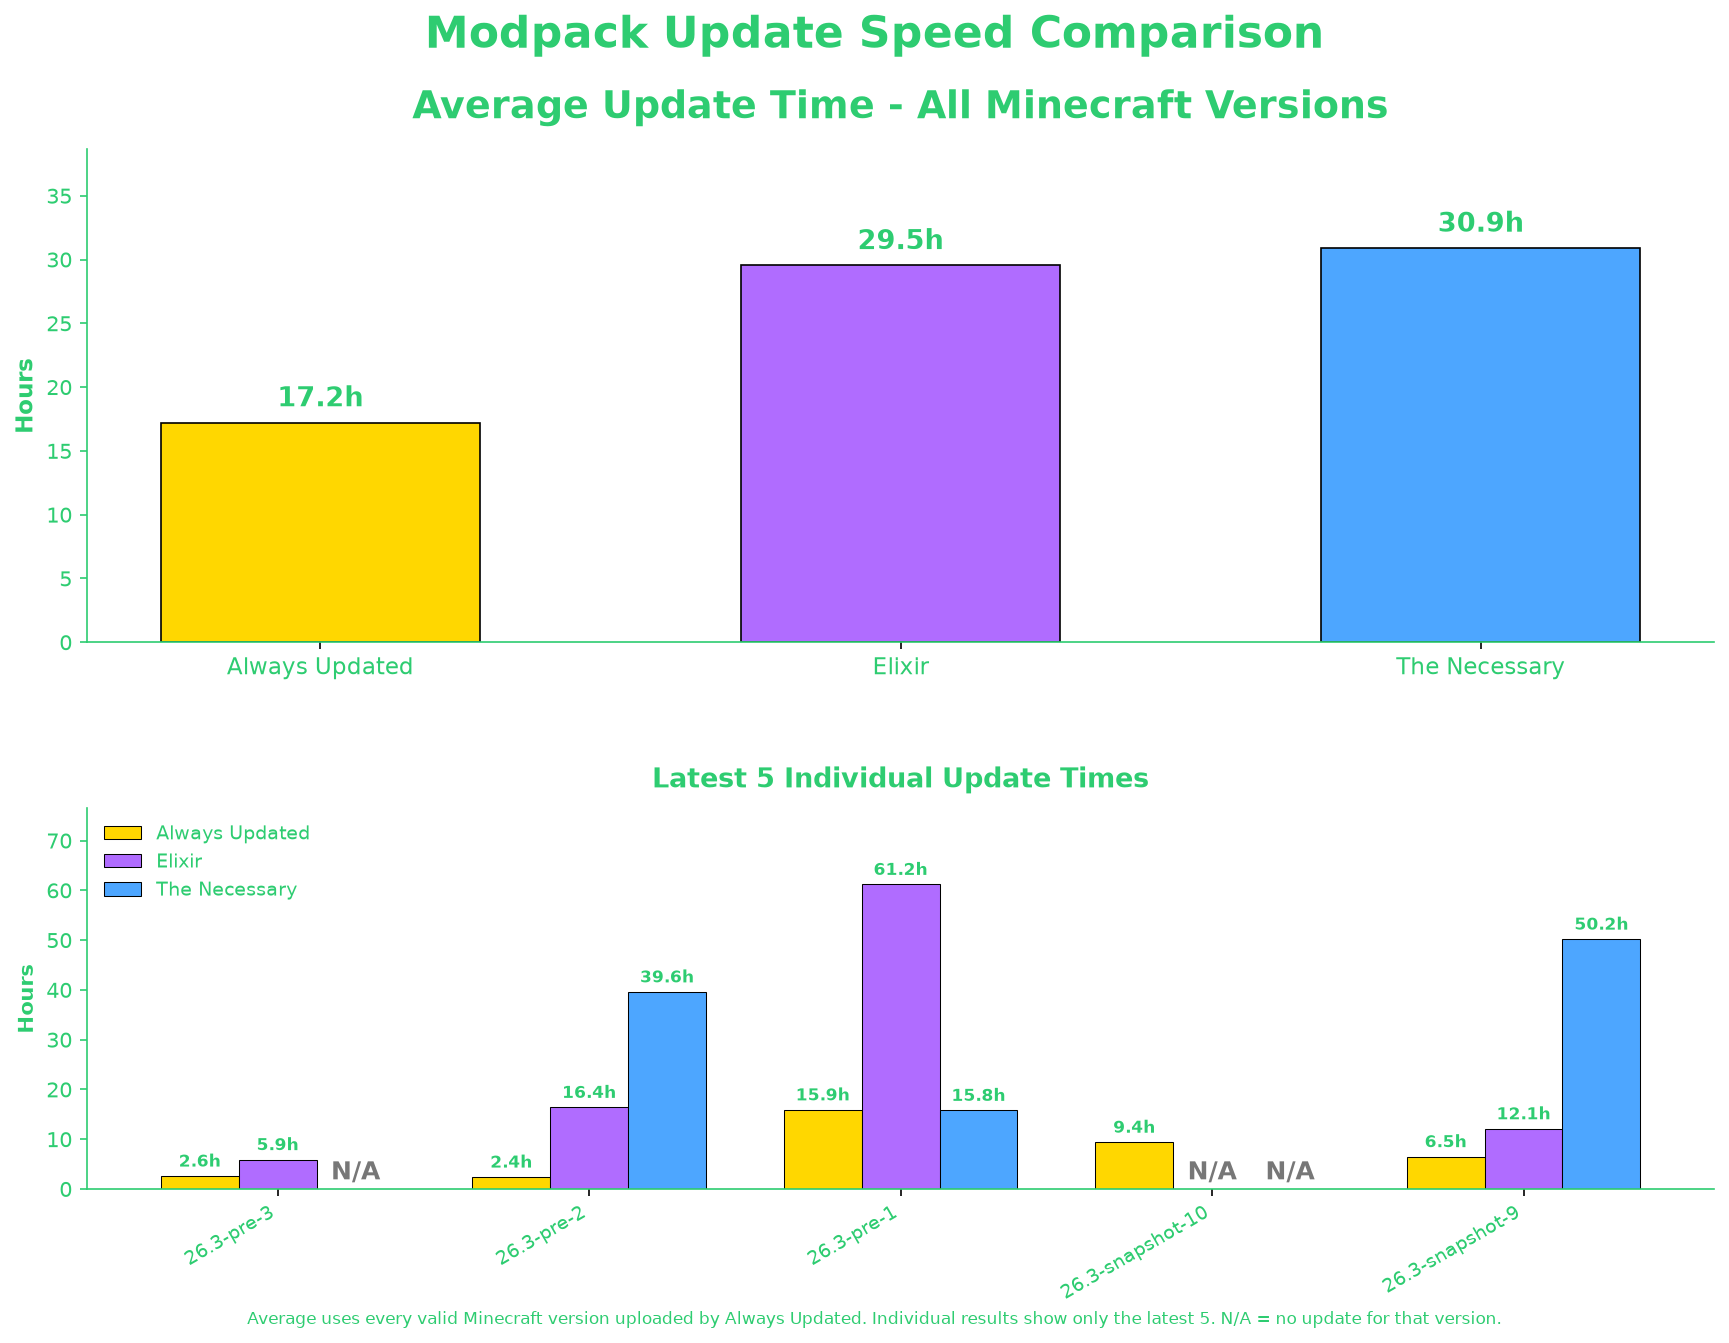
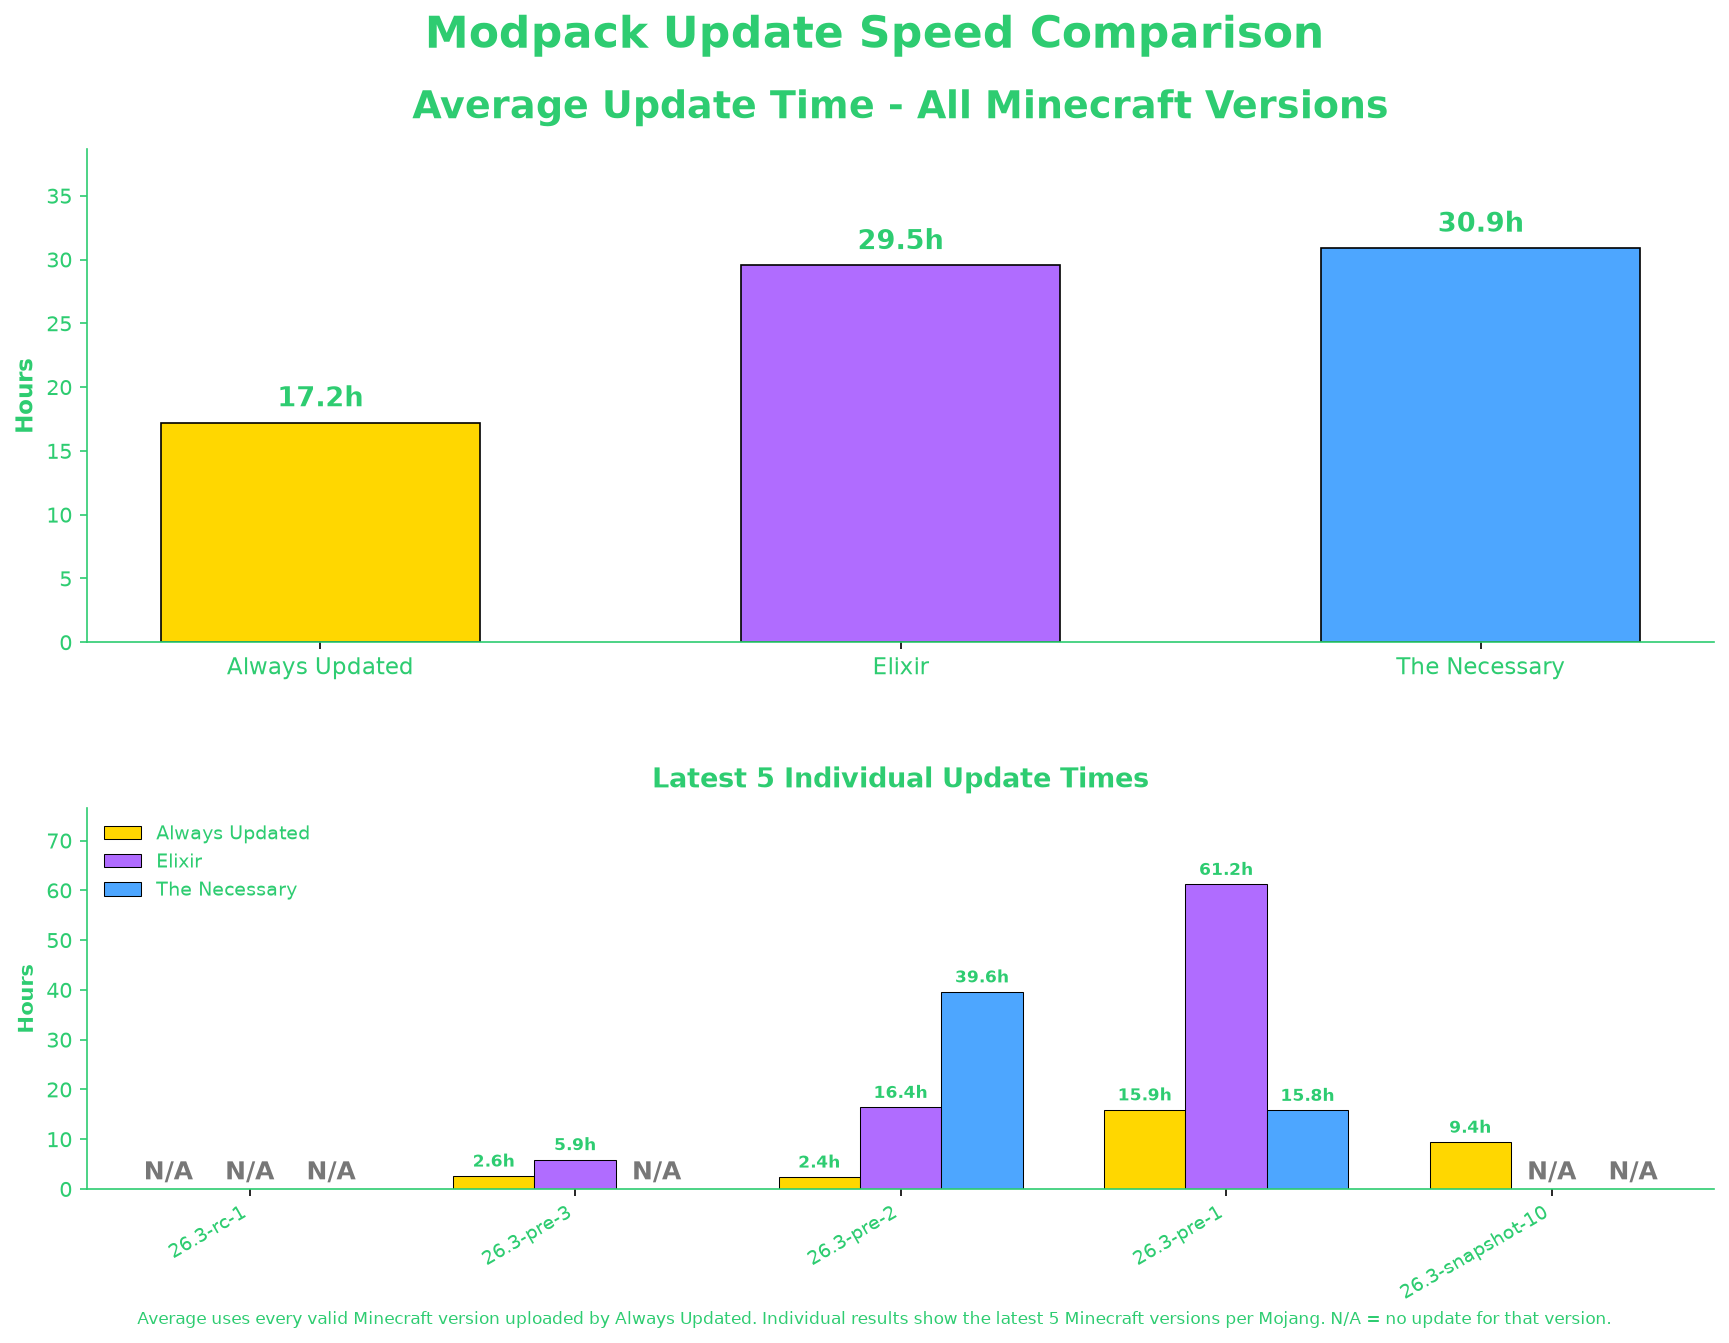
graph

diff --git a/generate_graph.py b/generate_graph.py
@@ -239,6 +239,10 @@ def main():
     # =====================================================
     # GET MODRINTH VERSION DATA
     # =====================================================
+    #
+    # This part is unchanged: EVERY project's full version
+    # history still comes from Modrinth, exactly as before.
+    # =====================================================
 
     project_times = {}
 
@@ -290,11 +294,10 @@ def main():
     #
     # This is the important part.
     #
-    # The averages and individual comparison are based on
-    # the Minecraft versions that Always Updated itself has
-    # uploaded.
+    # The averages are based on the Minecraft versions that
+    # Always Updated itself has uploaded (via Modrinth).
     #
-    # We do NOT use the union of all three projects anymore.
+    # We do NOT use the union of all three projects for this.
     # =====================================================
 
     reference_versions = []
@@ -320,12 +323,53 @@ def main():
     )
 
     # =====================================================
-    # GET RELEASE TIMES FOR ALL REFERENCE VERSIONS
+    # LATEST 5 VERSIONS -- FROM THE MOJANG MANIFEST
     # =====================================================
+    #
+    # These are the 5 most recent Minecraft versions
+    # according to Mojang itself, NOT the 5 most recent
+    # versions Always Updated happens to have published.
+    #
+    # Modrinth data (project_times) for each of these is
+    # still looked up exactly as before -- only the source
+    # of *which* versions count as "latest" has changed.
+    # =====================================================
+
+    latest_versions = []
+
+    for version in manifest_order:
+
+        if version in DISALLOWED_VERSIONS:
+            continue
+
+        latest_versions.append(version)
+
+        if len(latest_versions) == 5:
+            break
+
+    print(
+        f"Latest 5 Minecraft versions (per Mojang manifest): "
+        f"{', '.join(latest_versions)}"
+    )
+
+    # =====================================================
+    # GET RELEASE TIMES
+    # =====================================================
+    #
+    # We need release times for the reference versions
+    # (for averages) AND the manifest-based latest 5
+    # (for the individual chart), since those two sets may
+    # no longer be identical.
+    # =====================================================
+
+    versions_needing_release_time = sorted(
+        set(reference_versions) | set(latest_versions),
+        key=lambda version: manifest_order.index(version),
+    )
 
     release_times = {}
 
-    for mc_version in reference_versions:
+    for mc_version in versions_needing_release_time:
 
         try:
 
@@ -344,24 +388,21 @@ def main():
             )
 
     # =====================================================
-    # BUILD ALL-TIME DATA
+    # DATA POINT BUILDER
     # =====================================================
     #
-    # This contains EVERY Always Updated version.
-    #
-    # It is used for the averages.
+    # Shared helper: given a Minecraft version, build the
+    # {label: hours_to_update} data point using project_times
+    # and release_times. Returns None if we don't have a
+    # release time for the version at all.
     # =====================================================
 
-    all_data_points = []
-
-    for mc_version in reference_versions:
+    def make_data_point(mc_version):
 
         if mc_version not in release_times:
-            continue
+            return None
 
-        mc_release_time = release_times[
-            mc_version
-        ]
+        mc_release_time = release_times[mc_version]
 
         point = {
             "label": mc_version
@@ -392,7 +433,25 @@ def main():
                     1
                 )
 
-        all_data_points.append(point)
+        return point
+
+    # =====================================================
+    # BUILD ALL-TIME DATA
+    # =====================================================
+    #
+    # This contains EVERY Always Updated version.
+    #
+    # It is used for the averages.
+    # =====================================================
+
+    all_data_points = []
+
+    for mc_version in reference_versions:
+
+        point = make_data_point(mc_version)
+
+        if point is not None:
+            all_data_points.append(point)
 
     # =====================================================
     # ALL-TIME AVERAGES
@@ -477,11 +536,10 @@ def main():
     #
     # ONLY the latest 5 are shown in the lower graph.
     #
-    # These are based on Always Updated's versions, not
-    # the union of all projects.
+    # These now come from the Mojang manifest (see
+    # `latest_versions` above), not from Always Updated's
+    # own published versions.
     # =====================================================
-
-    latest_versions = reference_versions[:5]
 
     print("\n==========================================")
     print("          LATEST 5 VERSIONS")
@@ -491,28 +549,18 @@ def main():
 
     for mc_version in latest_versions:
 
-        # Find the corresponding all-time data point.
-        matching = next(
-            (
-                point
-                for point in all_data_points
-                if point["label"] == mc_version
-            ),
-            None,
-        )
+        point = make_data_point(mc_version)
 
-        if matching is None:
+        if point is None:
             continue
 
-        latest_data_points.append(
-            matching
-        )
+        latest_data_points.append(point)
 
         output = f"  {mc_version}:"
 
         for label in PROJECTS:
 
-            value = matching[label]
+            value = point[label]
 
             if value is None:
 
@@ -875,6 +923,23 @@ def main():
     )
 
     # =====================================================
+    # BOTTOM X-LIMITS
+    # =====================================================
+    #
+    # Pin these explicitly. Without this, matplotlib
+    # autoscales the x-axis based only on the drawn bars --
+    # and a version where EVERY project is N/A (no bars at
+    # all, e.g. a brand new MC version nobody's updated for
+    # yet) has nothing to anchor that x-position, so its
+    # "N/A" text ends up rendered outside the plot frame.
+    # =====================================================
+
+    ax_detail.set_xlim(
+        -0.5,
+        len(x_detail) - 0.5
+    )
+
+    # =====================================================
     # BOTTOM LEGEND
     # =====================================================
 
@@ -927,7 +992,8 @@ def main():
         (
             "Average uses every valid Minecraft version "
             "uploaded by Always Updated. "
-            "Individual results show only the latest 5. "
+            "Individual results show the latest 5 Minecraft "
+            "versions per Mojang. "
             "N/A = no update for that version."
         ),
         ha="center",
@@ -965,7 +1031,8 @@ def main():
 
     print(
         f"Individual graph displays "
-        f"{len(latest_data_points)} latest versions."
+        f"{len(latest_data_points)} latest Minecraft versions "
+        f"(per Mojang manifest)."
     )
 
     print("==========================================")
